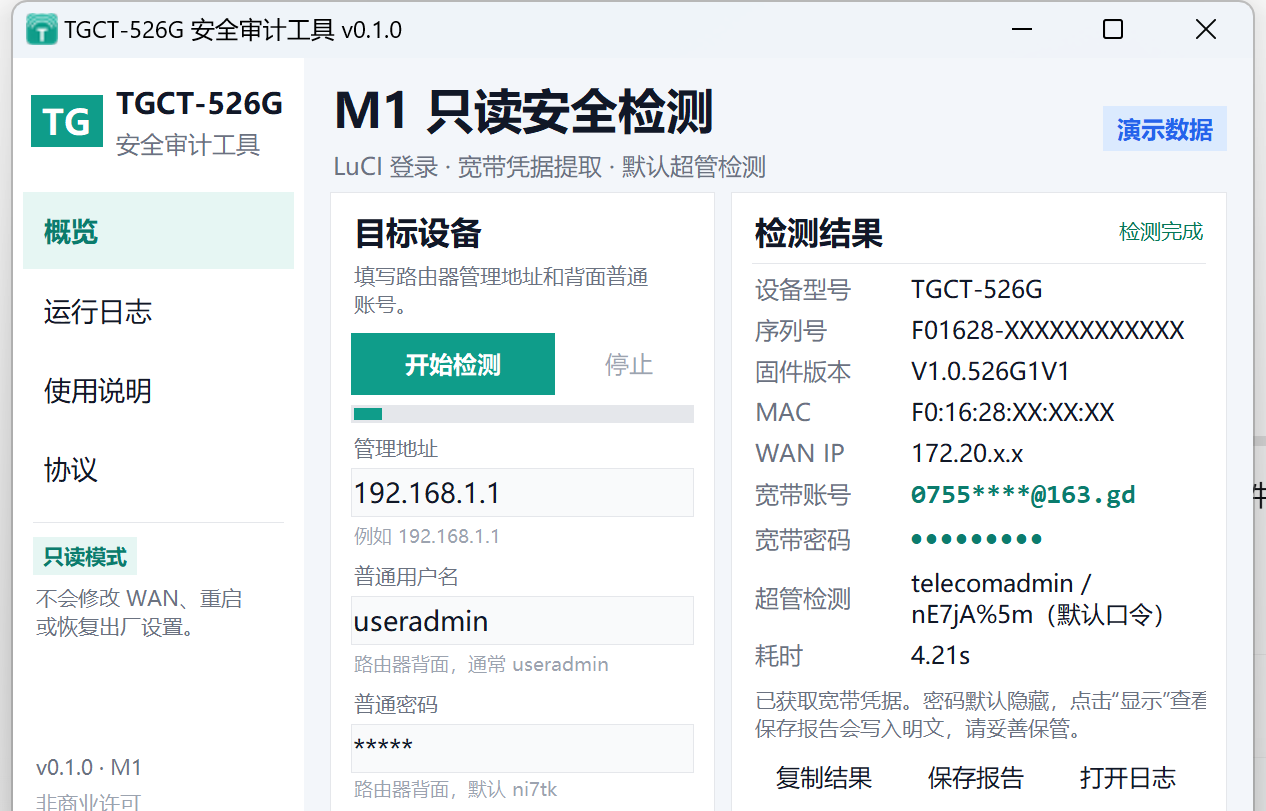
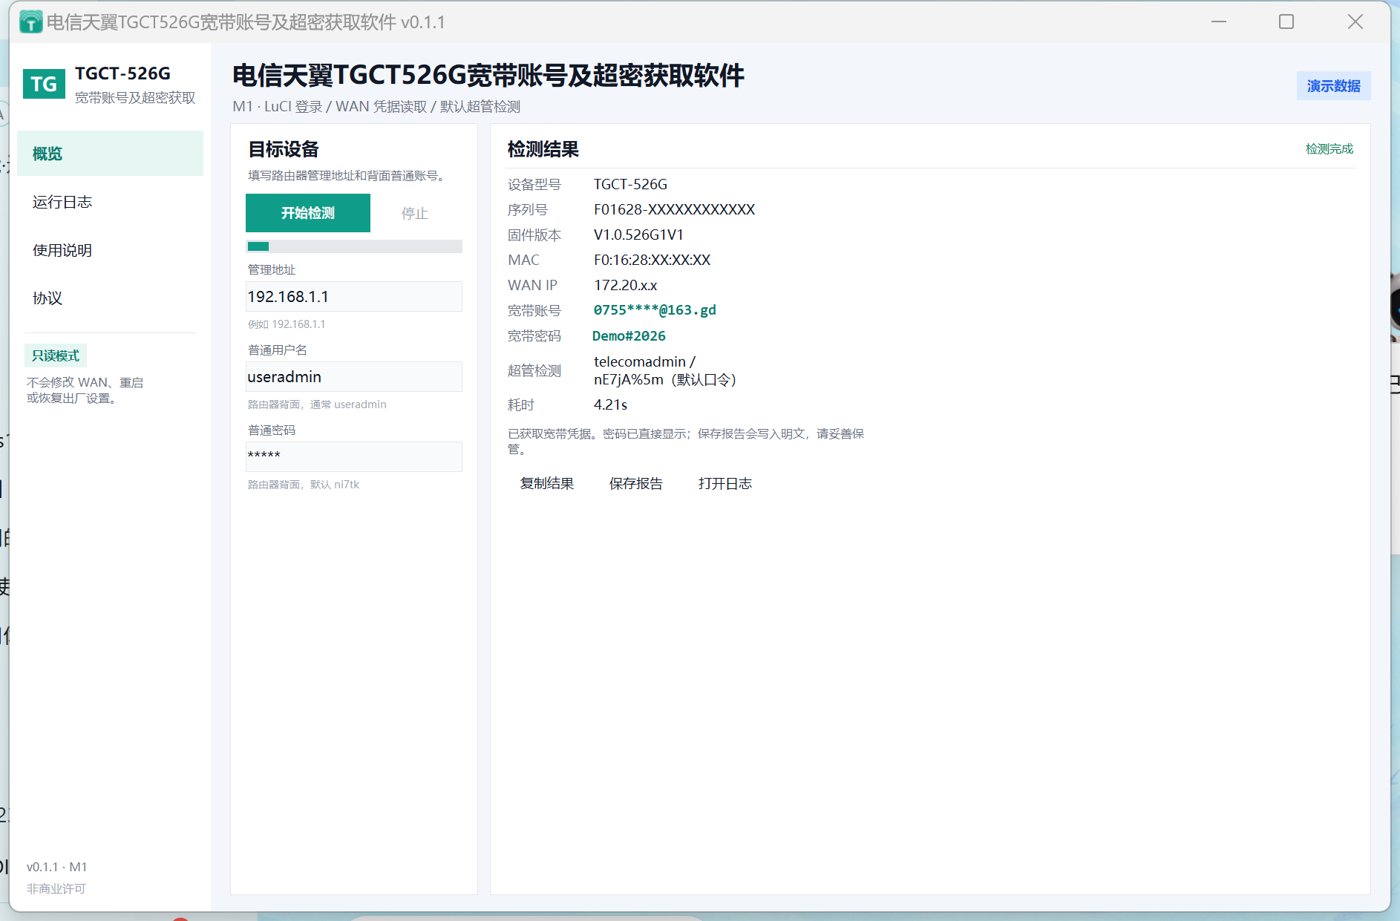
M1: TGCT-526G read-only audit GUI, portable Windows build, docs and license

diff --git a/src/tgct526g/app.py b/src/tgct526g/app.py
@@ -3,6 +3,7 @@
 from __future__ import annotations
 
 import argparse
+import ctypes
 import json
 import os
 import queue
@@ -73,13 +74,43 @@ def _asset_path(name: str) -> str:
     return os.path.join(base, "assets", name)
 
 
+def _system_dpi() -> int:
+    """Return the effective Windows DPI, falling back to 96."""
+    if sys.platform != "win32":
+        return 96
+    try:
+        return int(ctypes.windll.user32.GetDpiForSystem())
+    except Exception:
+        pass
+    try:
+        hdc = ctypes.windll.user32.GetDC(0)
+        dpi = int(ctypes.windll.gdi32.GetDeviceCaps(hdc, 88))  # LOGPIXELSX
+        ctypes.windll.user32.ReleaseDC(0, hdc)
+        return dpi or 96
+    except Exception:
+        return 96
+
+
+def _enable_dpi_awareness() -> int:
+    """Make Tk render at native resolution instead of being bitmap-scaled."""
+    if sys.platform != "win32":
+        return 96
+    try:
+        ctypes.windll.shcore.SetProcessDpiAwareness(2)  # per-monitor aware
+    except Exception:
+        try:
+            ctypes.windll.user32.SetProcessDPIAware()
+        except Exception:
+            pass
+    return _system_dpi()
+
+
 class App:
     def __init__(self, root: tk.Tk):
         self.root = root
         self.root.title(f"{APP_NAME} v{__version__}")
         self.root.configure(bg=BG)
-        self.root.geometry("1240x780")
-        self.root.minsize(1100, 680)
+        self._apply_ui_scale()
         self._center()
 
         self.queue: queue.Queue = queue.Queue()
@@ -87,7 +118,6 @@ class App:
         self.stop_event = threading.Event()
         self.current_result: AuditResult | None = None
         self.logfile = _new_logfile()
-        self.pwd_visible = False
         self.pages: dict[str, tk.Frame] = {}
         self.nav_buttons: dict[str, tk.Button] = {}
         self.current_page = "overview"
@@ -117,9 +147,34 @@ class App:
         self._poll()
 
     # ------------------------------------------------------------------ layout
+    def _apply_ui_scale(self) -> None:
+        """Scale the window and Tk fonts for the current display DPI.
+
+        The previous build was DPI-unaware, so Windows bitmap-scaled the whole
+        window and text looked blurry.  We now declare per-monitor awareness and
+        choose a scale that both follows the DPI and fits the work area.
+        """
+        dpi = _system_dpi()
+        screen_w = self.root.winfo_screenwidth()
+        screen_h = self.root.winfo_screenheight()
+        scale = min(
+            dpi / 96.0,
+            max(0.85, (screen_w - 40) / 1240.0),
+            max(0.85, (screen_h - 90) / 780.0),
+        )
+        self.ui_scale = max(0.85, min(scale, 1.5))
+        # Tk's default scaling is 96/72; keep font metrics consistent with the
+        # pixel geometry chosen above.
+        self.root.tk.call("tk", "scaling", (96.0 * self.ui_scale) / 72.0)
+        self.root.minsize(
+            int(1100 * self.ui_scale),
+            int(680 * self.ui_scale),
+        )
+
     def _center(self) -> None:
         self.root.update_idletasks()
-        width, height = 1240, 780
+        width = int(1240 * self.ui_scale)
+        height = int(780 * self.ui_scale)
         x = max(0, (self.root.winfo_screenwidth() - width) // 2)
         y = max(0, (self.root.winfo_screenheight() - height) // 2 - 20)
         self.root.geometry(f"{width}x{height}+{x}+{y}")
@@ -150,15 +205,15 @@ class App:
         title_box.grid(row=0, column=0, sticky="w")
         tk.Label(
             title_box,
-            text="M1 只读安全检测",
+            text=APP_NAME,
             bg=BG,
             fg=TEXT,
-            font=(FONT, 18, "bold"),
+            font=(FONT, 17, "bold"),
             anchor="w",
         ).pack(anchor="w")
         tk.Label(
             title_box,
-            text="LuCI 登录 · 宽带凭据提取 · 默认超管检测",
+            text="M1 · LuCI 登录 / WAN 凭据读取 / 默认超管检测",
             bg=BG,
             fg=MUTED,
             font=(FONT, 9),
@@ -218,7 +273,7 @@ class App:
         ).pack(anchor="w")
         tk.Label(
             brand_text,
-            text="安全审计工具",
+            text="宽带账号及超密获取",
             bg=SIDEBAR,
             fg=MUTED,
             font=(FONT, 9),
@@ -487,25 +542,8 @@ class App:
                     bd=0,
                     highlightthickness=0,
                     font=(MONO, 10, "bold"),
-                    show="•",
                 )
                 self.pwd_entry.pack(side="left", fill="x", expand=True, ipady=3)
-                self.eye_btn = tk.Button(
-                    row,
-                    text="显示",
-                    command=self.toggle_password,
-                    bg=CARD,
-                    fg=BLUE,
-                    activebackground=CARD,
-                    activeforeground=BLUE,
-                    bd=0,
-                    relief="flat",
-                    highlightthickness=0,
-                    font=(FONT, 8),
-                    cursor="hand2",
-                    width=4,
-                )
-                self.eye_btn.pack(side="right")
             else:
                 fg = ACCENT_DARK if key == "account" else TEXT
                 font = (MONO, 10, "bold") if key == "account" else (FONT, 9)
@@ -856,9 +894,6 @@ class App:
         self.pwd_entry.configure(state="normal")
         self.pwd_entry.delete(0, "end")
         self.pwd_entry.configure(state="readonly")
-        self.pwd_visible = False
-        self.eye_btn.configure(text="显示")
-        self.pwd_entry.configure(show="•")
         self.res_state.configure(text="检测中…", fg=AMBER)
         self.result_hint.configure(text="正在登录并读取配置，请稍候…")
         self.set_running(True)
@@ -940,7 +975,7 @@ class App:
             self.set_status("完成", GREEN_SOFT, GREEN)
             self.res_state.configure(text="检测完成", fg=GREEN)
             self.result_hint.configure(
-                text="已获取宽带凭据。密码默认隐藏，点击“显示”查看；保存报告会写入明文，请妥善保管。"
+                text="已获取宽带凭据。密码已直接显示；保存报告会写入明文，请妥善保管。"
             )
             self.append_log("OK", "检测完成")
         else:
@@ -948,11 +983,6 @@ class App:
             self.res_state.configure(text="部分完成", fg=AMBER)
             self.result_hint.configure(text="已获取账号，但密码未获取；请查看日志。")
             self.append_log("WARN", "检测完成，但宽带密码为空")
-
-    def toggle_password(self) -> None:
-        self.pwd_visible = not self.pwd_visible
-        self.pwd_entry.configure(show="" if self.pwd_visible else "•")
-        self.eye_btn.configure(text="隐藏" if self.pwd_visible else "显示")
 
     def copy_result(self) -> None:
         if not self.current_result:
@@ -1048,7 +1078,10 @@ def main(argv: list[str] | None = None) -> int:
             stream.reconfigure(encoding="utf-8", errors="replace")  # type: ignore[union-attr]
         except Exception:
             pass
-    parser = argparse.ArgumentParser(prog="tgct526g", description="TGCT-526G M1 只读安全审计")
+    parser = argparse.ArgumentParser(
+        prog="tgct526g",
+        description="电信天翼TGCT526G宽带账号及超密获取软件（M1 只读检测）",
+    )
     parser.add_argument("--cli", action="store_true", help="命令行模式，不启动 GUI")
     parser.add_argument("--host", default="192.168.1.1", help="路由器管理地址")
     parser.add_argument("--user", default="useradmin", help="普通用户名")
@@ -1064,6 +1097,7 @@ def main(argv: list[str] | None = None) -> int:
     if args.cli:
         return App.run_cli(args)
 
+    _enable_dpi_awareness()
     root = tk.Tk()
     app = App(root)
     if args.demo:

diff --git a/src/tgct526g/license_text.py b/src/tgct526g/license_text.py
@@ -1,6 +1,6 @@
 """License shown in the app and shipped as LICENSE."""
 
-LICENSE_TITLE = "TGCT-526G Audit Tool Non-Commercial License 1.0"
+LICENSE_TITLE = "电信天翼TGCT526G宽带账号及超密获取软件 非商业许可 1.0"
 
 LICENSE_SUMMARY = """本工具采用“非商业许可”：
 
@@ -12,7 +12,7 @@ LICENSE_SUMMARY = """本工具采用“非商业许可”：
 • 使用者应遵守当地法律法规，仅用于自有或实验室设备。
 """
 
-LICENSE_TEXT = """TGCT-526G Audit Tool Non-Commercial License 1.0
+LICENSE_TEXT = """电信天翼TGCT526G宽带账号及超密获取软件 非商业许可 1.0
 Copyright (c) 2026 dellzou. All rights reserved.
 
 1. 许可范围

diff --git a/src/tgct526g/models.py b/src/tgct526g/models.py
@@ -107,7 +107,7 @@ class AuditResult:
             password = mask_secret(password, 1)
         ta = "可用（默认口令）" if self.superadmin_is_default else ("不可用" if self.superadmin_password == "" else "可用")
         lines = [
-            "TGCT-526G 安全审计结果",
+            "TGCT-526G 宽带账号及超密获取结果",
             "=" * 32,
             f"目标        : {value(self.target)}",
             f"设备型号    : {value(self.model)}",

diff --git a/src/tgct526g/version.py b/src/tgct526g/version.py
@@ -1,6 +1,6 @@
 """Application identity."""
 
-APP_NAME = "TGCT-526G 安全审计工具"
+APP_NAME = "电信天翼TGCT526G宽带账号及超密获取软件"
 APP_SLUG = "tgct526g"
-__version__ = "0.1.0"
+__version__ = "0.1.1"
 BUILD_CHANNEL = "M1"

diff --git a/src/tgct526g/__init__.py b/src/tgct526g/__init__.py
@@ -1,4 +1,4 @@
-"""TGCT-526G audit toolkit (M1, read-only)."""
+"""TGCT-526G broadband credential tool (M1, read-only)."""
 
 from .version import APP_NAME, __version__
 

diff --git a/README.md b/README.md
@@ -1,12 +1,12 @@
-# TGCT-526G 安全审计工具（M1）
+# 电信天翼TGCT526G宽带账号及超密获取软件（M1）
 
-面向 **TGCT-526G 天翼网关** 的只读安全审计工具。M1 聚焦三件事：
+面向 **TGCT-526G 天翼网关** 的宽带账号及超密获取软件。M1 聚焦三件事：
 
 - 用路由器背面的普通账号登录 LuCI，读取宽带账号；
 - 检测 `telecomadmin / nE7jA%5m` 是否为默认超管口令；
 - 在默认超管可用时进入 8080 装维后台，从 WAN 页面解出 PPPoE 宽带密码。
 
-界面为浅色主题，Windows 单文件 exe，带运行日志、结果复制/保存、使用说明和协议页。
+界面为浅色主题，Windows 便携版，带运行日志、结果复制/保存、使用说明和协议页。
 
 > **M1 只读**：不保存 WAN、不重启、不恢复出厂、不开启 telnet、不写路由器文件。
 > 工具不会爆破超管口令；如果默认口令已被修改，M1 会明确提示并停止。
@@ -16,7 +16,7 @@
 ## 下载与运行
 
 1. 打开 [Releases](https://github.com/dellzou/tgct-526g-audit/releases/latest)。
-2. 下载 `TGCT526G-Audit-0.1.0-win64.zip`。
+2. 下载 `TGCT526G-Audit-0.1.1-win64.zip`。
 3. 解压到任意目录，双击 `TGCT526G-Audit.exe`。Windows SmartScreen 可能提示“未知发布者”，选择“更多信息 → 仍要运行”。
 4. 电脑连接到该路由器的 LAN 口或 WiFi。
 5. 填写管理地址（默认 `192.168.1.1`）和路由器背面的普通账号。
@@ -43,7 +43,7 @@ python -m tgct526g --cli --host 192.168.1.1 --user useradmin --password ni7tk `
   --ta-password nE7jA%5m --out result.json
 ```
 
-默认在终端隐藏密码；需要明文输出时加 `--show-secrets`。JSON 报告始终写入 `--out` 指定的文件。
+命令行默认隐藏密码；需要明文输出时加 `--show-secrets`。GUI 结果区直接显示密码。JSON 报告始终写入 `--out` 指定的文件。
 
 ## M1 功能
 
@@ -76,8 +76,8 @@ powershell -NoProfile -ExecutionPolicy Bypass -File .\build.ps1
 
 产物：
 
-- `dist\TGCT526G-Audit-0.1.0-win64.zip`（GUI 便携版）
-- `dist\tgct526g-cli-0.1.0-win64.zip`（命令行便携版）
+- `dist\TGCT526G-Audit-0.1.1-win64.zip`（GUI 便携版）
+- `dist\tgct526g-cli-0.1.1-win64.zip`（命令行便携版）
 - `dist\SHA256SUMS.txt`（发布包校验值）
 
 ## 开发与测试
@@ -97,7 +97,7 @@ python -m unittest discover -s tests -v
 
 ## 许可
 
-本项目采用 **TGCT-526G Audit Tool Non-Commercial License 1.0**：
+本项目采用 **电信天翼TGCT526G宽带账号及超密获取软件 非商业许可 1.0**：
 
 - 允许个人、教育、研究、实验室环境使用；
 - **禁止未经权利人书面许可的商业用途**；
